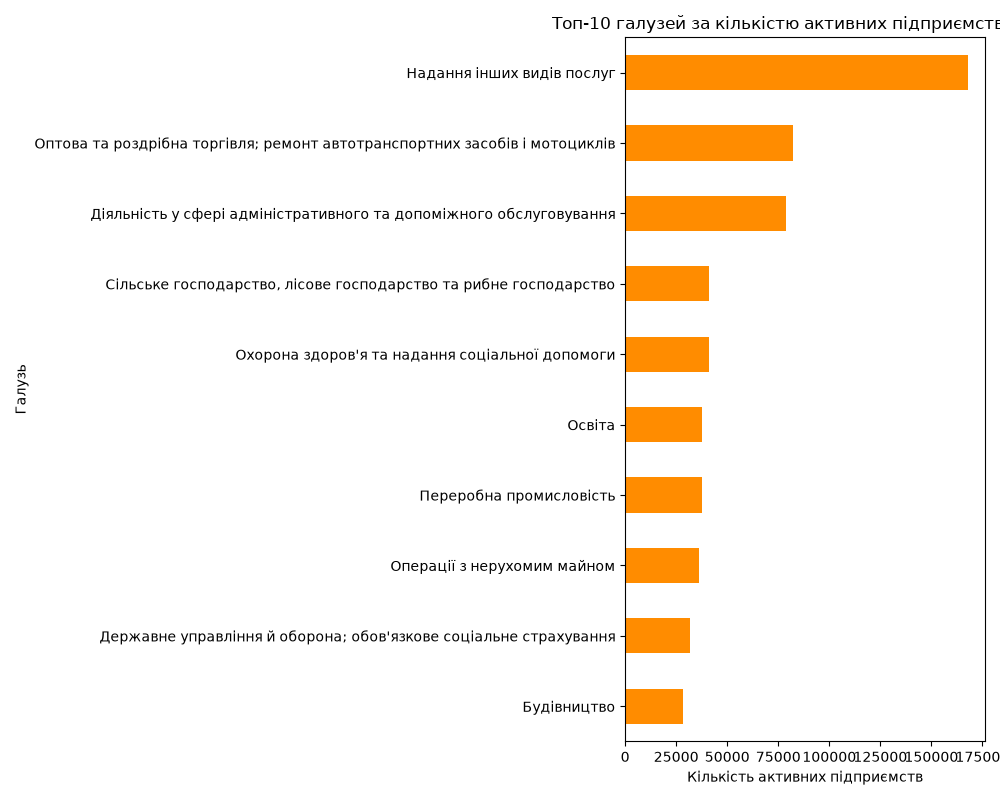
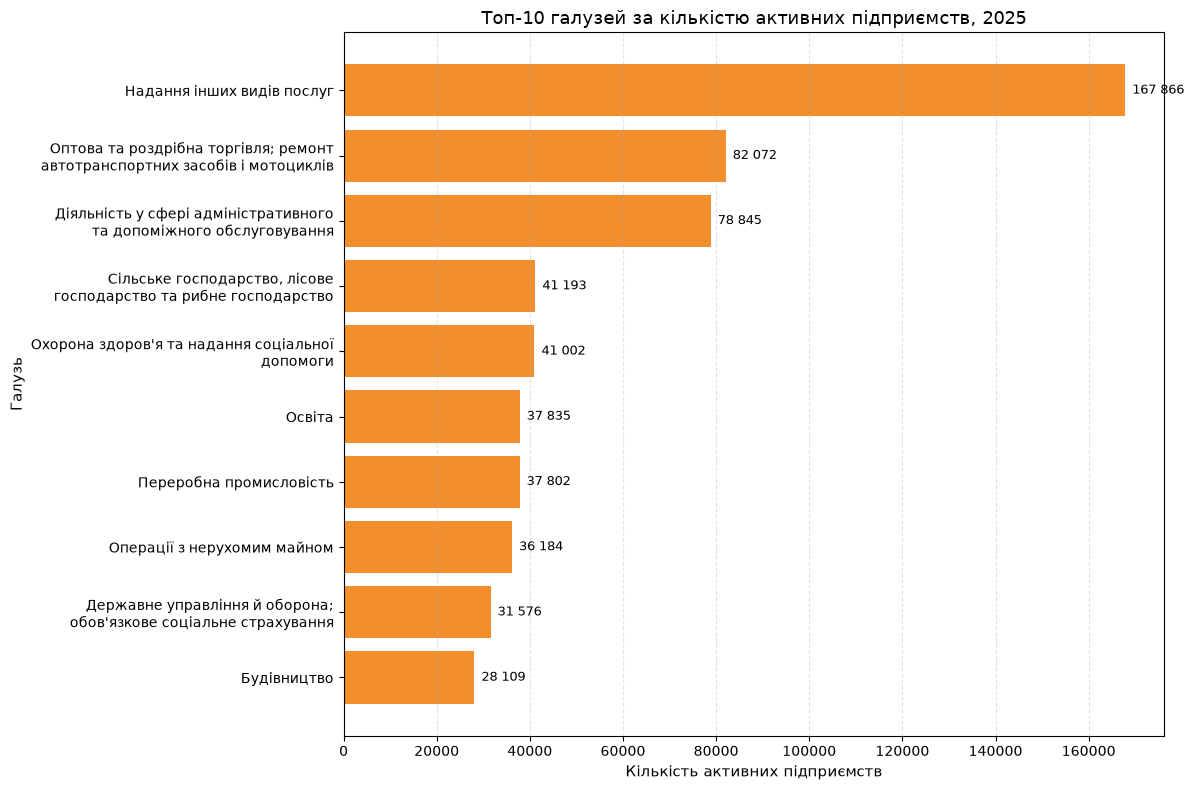
Add cleaned dataset, analysis outputs, and updated project structure

diff --git a/analyze_data.py b/analyze_data.py
@@ -1,8 +1,15 @@
+import textwrap
 import pandas as pd
 import matplotlib.pyplot as plt
 
-# Налаштування відображення
+# Стиль
 plt.style.use("default")
+plt.rcParams["font.family"] = "DejaVu Sans"
+plt.rcParams["axes.titlesize"] = 13
+plt.rcParams["axes.labelsize"] = 11
+plt.rcParams["xtick.labelsize"] = 10
+plt.rcParams["ytick.labelsize"] = 10
+plt.rcParams["legend.fontsize"] = 10
 
 # 1. Завантаження очищених даних
 df = pd.read_csv("data_processed/enterprises_clean.csv", encoding="utf-8-sig")
@@ -10,6 +17,11 @@ df = pd.read_csv("data_processed/enterprises_clean.csv", encoding="utf-8-sig")
 # 2. Беремо останній доступний рік
 last_year = df["year"].max()
 df_last = df[df["year"] == last_year].copy()
+
+# Допоміжна функція для переносу довгих підписів
+def wrap_labels(labels, width=35):
+    return [textwrap.fill(str(label), width=width) for label in labels]
+
 
 # -----------------------------
 # A. ТОП РЕГІОНИ
@@ -23,13 +35,21 @@ top_regions = (
 top_regions.to_csv("data_processed/top_regions.csv", encoding="utf-8-sig")
 
 plt.figure(figsize=(10, 6))
-top_regions.head(10).sort_values().plot(kind="barh", color="steelblue")
+plot_data = top_regions.head(10).sort_values()
+bars = plt.barh(plot_data.index, plot_data.values, color="#4c78a8")
 plt.xlabel("Кількість активних підприємств")
-plt.ylabel("Регіон")
-plt.title(f"Топ-10 регіонів за кількістю активних підприємств, {last_year}")
+plt.ylabel("Область")
+plt.title(f"Топ-10 областей за кількістю активних підприємств, {last_year}")
+plt.grid(axis="x", linestyle="--", alpha=0.35)
+
+for bar, value in zip(bars, plot_data.values):
+    plt.text(value + 1500, bar.get_y() + bar.get_height() / 2,
+             f"{value:,.0f}".replace(",", " "), va="center", fontsize=9)
+
 plt.tight_layout()
-plt.savefig("data_processed/top_regions.png")
+plt.savefig("data_processed/top_regions.png", bbox_inches="tight")
 plt.close()
+
 
 # -----------------------------
 # B. ТОП ГАЛУЗІ
@@ -42,14 +62,24 @@ top_activities = (
 
 top_activities.to_csv("data_processed/top_activities.csv", encoding="utf-8-sig")
 
-plt.figure(figsize=(10, 8))
-top_activities.head(10).sort_values().plot(kind="barh", color="darkorange")
+plt.figure(figsize=(12, 8))
+plot_data = top_activities.head(10).sort_values()
+labels = wrap_labels(plot_data.index, width=38)
+
+bars = plt.barh(labels, plot_data.values, color="#f28e2b")
 plt.xlabel("Кількість активних підприємств")
 plt.ylabel("Галузь")
 plt.title(f"Топ-10 галузей за кількістю активних підприємств, {last_year}")
+plt.grid(axis="x", linestyle="--", alpha=0.35)
+
+for bar, value in zip(bars, plot_data.values):
+    plt.text(value + 1500, bar.get_y() + bar.get_height() / 2,
+             f"{value:,.0f}".replace(",", " "), va="center", fontsize=9)
+
 plt.tight_layout()
-plt.savefig("data_processed/activities.png")
+plt.savefig("data_processed/activities.png", bbox_inches="tight")
 plt.close()
+
 
 # -----------------------------
 # C. ГЕНДЕРНИЙ РОЗПОДІЛ ПО ТОП-10 РЕГІОНАХ
@@ -64,21 +94,30 @@ sex_by_region = (
 )
 
 sex_by_region = sex_by_region.loc[top10_region_names]
-
 sex_by_region.to_csv("data_processed/sex_by_region.csv", encoding="utf-8-sig")
 
-plt.figure(figsize=(10, 6))
-sex_by_region[["Жінки", "Чоловіки"]].sort_values(by="Жінки").plot(
+fig, ax = plt.subplots(figsize=(10, 6))
+sex_by_region_sorted = sex_by_region.sort_values(by="Жінки")
+
+sex_by_region_sorted[["Жінки", "Чоловіки"]].plot(
     kind="barh",
     stacked=True,
-    color=["#d95f8d", "#4c78a8"]
+    color=["#d95f8d", "#4c78a8"],
+    ax=ax
 )
-plt.xlabel("Кількість активних підприємств")
-plt.ylabel("Регіон")
-plt.title(f"Розподіл за статтю керівника у топ-10 регіонах, {last_year}")
+
+ax.set_xlabel("Кількість активних підприємств")
+ax.set_ylabel("Область")
+ax.set_title(f"Розподіл за статтю керівника у топ-10 областях, {last_year}")
+ax.grid(axis="x", linestyle="--", alpha=0.35)
+
+legend = ax.get_legend()
+legend.set_title("Стать керівника")
+
 plt.tight_layout()
-plt.savefig("data_processed/sex_by_region.png")
+plt.savefig("data_processed/sex_by_region.png", bbox_inches="tight")
 plt.close()
+
 
 # -----------------------------
 # D. ЧАСТКА ЖІНОК ПО РЕГІОНАХ
@@ -109,13 +148,20 @@ women_share_by_region.to_csv(
 
 plt.figure(figsize=(10, 8))
 plot_df = women_share_by_region.head(10).sort_values(by="women_share")
-plt.barh(plot_df["region"], plot_df["women_share"] * 100, color="#d95f8d")
+bars = plt.barh(plot_df["region"], plot_df["women_share"] * 100, color="#d95f8d")
 plt.xlabel("Частка жінок-керівниць, %")
-plt.ylabel("Регіон")
-plt.title(f"Топ-10 регіонів за часткою жінок-керівниць, {last_year}")
+plt.ylabel("Область")
+plt.title(f"Топ-10 областей за часткою жінок-керівниць, {last_year}")
+plt.grid(axis="x", linestyle="--", alpha=0.35)
+
+for bar, value in zip(bars, plot_df["women_share"] * 100):
+    plt.text(value + 0.4, bar.get_y() + bar.get_height() / 2,
+             f"{value:.1f}%", va="center", fontsize=9)
+
 plt.tight_layout()
-plt.savefig("data_processed/women_share_top_regions.png")
+plt.savefig("data_processed/women_share_top_regions.png", bbox_inches="tight")
 plt.close()
+
 
 # -----------------------------
 # E. ЧАСТКА ЖІНОК ПО ГАЛУЗЯХ
@@ -144,25 +190,41 @@ women_share_by_activity.to_csv(
     encoding="utf-8-sig"
 )
 
-plt.figure(figsize=(10, 8))
+plt.figure(figsize=(12, 8))
 plot_df = women_share_by_activity.head(10).sort_values(by="women_share")
-plt.barh(plot_df["activity"], plot_df["women_share"] * 100, color="#d95f8d")
+labels = wrap_labels(plot_df["activity"], width=38)
+bars = plt.barh(labels, plot_df["women_share"] * 100, color="#d95f8d")
 plt.xlabel("Частка жінок-керівниць, %")
 plt.ylabel("Галузь")
 plt.title(f"Топ-10 галузей за часткою жінок-керівниць, {last_year}")
+plt.grid(axis="x", linestyle="--", alpha=0.35)
+
+for bar, value in zip(bars, plot_df["women_share"] * 100):
+    plt.text(value + 0.4, bar.get_y() + bar.get_height() / 2,
+             f"{value:.1f}%", va="center", fontsize=9)
+
 plt.tight_layout()
-plt.savefig("data_processed/women_share_top_activities.png")
+plt.savefig("data_processed/women_share_top_activities.png", bbox_inches="tight")
 plt.close()
 
-plt.figure(figsize=(10, 8))
+
+plt.figure(figsize=(12, 8))
 plot_df = women_share_by_activity.tail(10).sort_values(by="women_share")
-plt.barh(plot_df["activity"], plot_df["women_share"] * 100, color="#4c78a8")
+labels = wrap_labels(plot_df["activity"], width=38)
+bars = plt.barh(labels, plot_df["women_share"] * 100, color="#4c78a8")
 plt.xlabel("Частка жінок-керівниць, %")
 plt.ylabel("Галузь")
 plt.title(f"Топ-10 галузей з найнижчою часткою жінок-керівниць, {last_year}")
+plt.grid(axis="x", linestyle="--", alpha=0.35)
+
+for bar, value in zip(bars, plot_df["women_share"] * 100):
+    plt.text(value + 0.4, bar.get_y() + bar.get_height() / 2,
+             f"{value:.1f}%", va="center", fontsize=9)
+
 plt.tight_layout()
-plt.savefig("data_processed/women_share_bottom_activities.png")
+plt.savefig("data_processed/women_share_bottom_activities.png", bbox_inches="tight")
 plt.close()
+
 
 # -----------------------------
 # F. ВІДХИЛЕННЯ ВІД ЗАГАЛЬНОЇ СЕРЕДНЬОЇ
@@ -182,16 +244,25 @@ women_share_by_activity.to_csv(
     encoding="utf-8-sig"
 )
 
-plt.figure(figsize=(10, 8))
+plt.figure(figsize=(12, 8))
 plot_df = women_share_by_activity.sort_values(by="gap_from_overall")
+labels = wrap_labels(plot_df["activity"], width=38)
 colors = ["#4c78a8" if x < 0 else "#d95f8d" for x in plot_df["gap_from_overall"]]
-plt.barh(plot_df["activity"], plot_df["gap_from_overall"] * 100, color=colors)
+bars = plt.barh(labels, plot_df["gap_from_overall"] * 100, color=colors)
 plt.xlabel("Відхилення від середньої частки жінок, в.п.")
 plt.ylabel("Галузь")
 plt.title(f"Відхилення частки жінок-керівниць від загального середнього, {last_year}")
+plt.grid(axis="x", linestyle="--", alpha=0.35)
+
+for bar, value in zip(bars, plot_df["gap_from_overall"] * 100):
+    shift = 0.25 if value >= 0 else -1.2
+    plt.text(value + shift, bar.get_y() + bar.get_height() / 2,
+             f"{value:.1f}", va="center", fontsize=9)
+
 plt.tight_layout()
-plt.savefig("data_processed/gender_gap_activities.png")
+plt.savefig("data_processed/gender_gap_activities.png", bbox_inches="tight")
 plt.close()
+
 
 # -----------------------------
 # G. КОРОТКІ ПІДСУМКОВІ МЕТРИКИ
@@ -217,4 +288,3 @@ summary.to_csv("data_processed/summary_metrics.csv", index=False, encoding="utf-
 
 print("Analysis completed.")
 print("Overall women share:", round(overall_women_share * 100, 2), "%")
-
